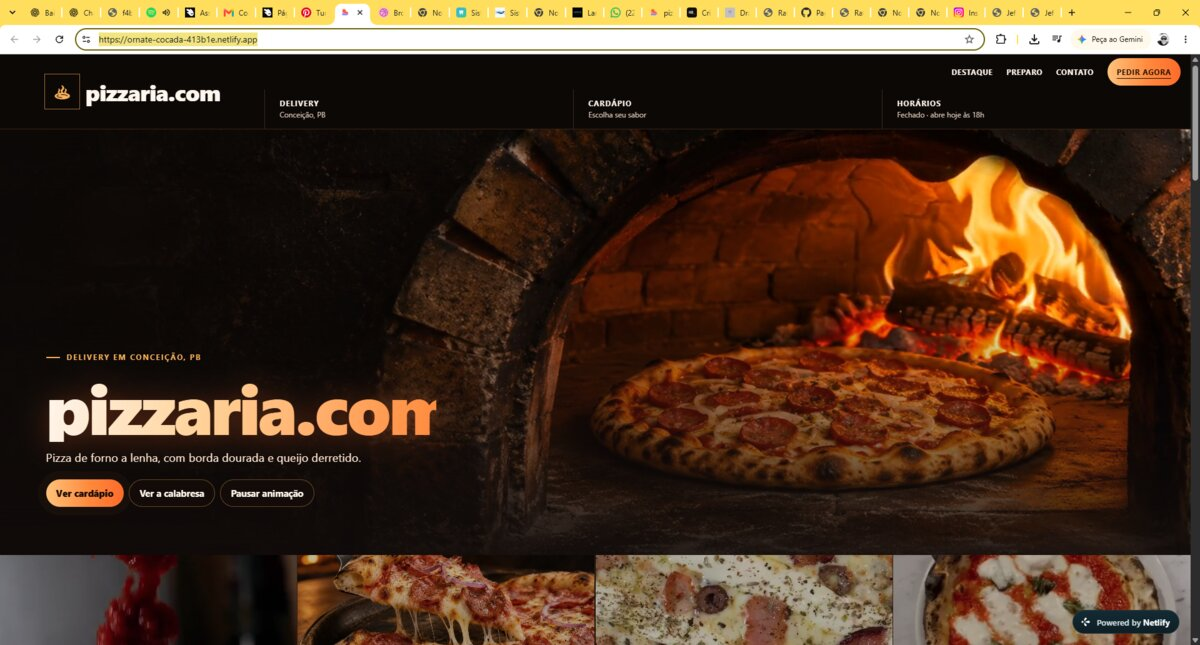
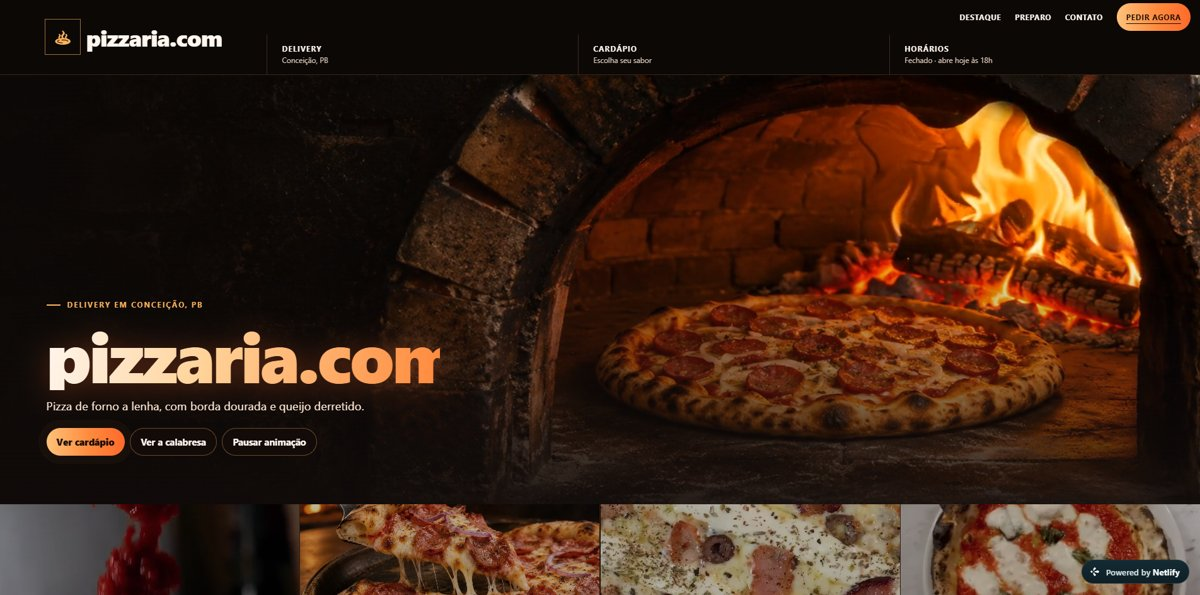
Recorta as capturas dos cards novos, sem barra do navegador
Claude-Session: https://claude.ai/code/session_01Rv5uuLWu5jdVkRLPNxohU2

diff --git a/index.html b/index.html
@@ -225,7 +225,7 @@
 
 
     <article class="work">
-      <img class="shot" src="assets/portfolio/pizzaria-desk.jpg" width="1200" height="645" loading="lazy" alt="Tela do site da Pizzaria em Conceição">
+      <img class="shot" src="assets/portfolio/pizzaria-desk.jpg" width="1200" height="595" loading="lazy" alt="Tela do site da Pizzaria em Conceição">
       <div class="body">
         <span class="cat">Cardápio online · Pizzaria</span>
         <h3>Pizzaria em Conceição</h3>
@@ -235,7 +235,7 @@
     </article>
 
     <article class="work">
-      <img class="shot" src="assets/portfolio/rafael-desk.jpg" width="1200" height="645" loading="lazy" alt="Tela do site do Rafael Advocacia">
+      <img class="shot" src="assets/portfolio/rafael-desk.jpg" width="1200" height="595" loading="lazy" alt="Tela do site do Rafael Advocacia">
       <div class="body">
         <span class="cat">Site institucional · Advocacia</span>
         <h3>Rafael Advocacia</h3>
